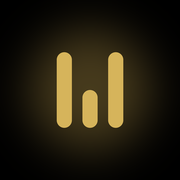
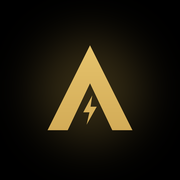
Marca: la «A» con rayo como icono, splash, loader, marca de agua y cards; Android, intro de vídeos y récord

Changed region(s): [[0.25, 0.25, 0.75, 0.75]]

diff --git a/native/Autopilot/Design/Components.swift b/native/Autopilot/Design/Components.swift
@@ -360,8 +360,8 @@ extension View {
     }
 }
 
-/// Firma de Autopilot («Ritmo»): tres barras 2-1-2. Logo sin texto, marca de agua y loader;
-/// la misma pieza que `BrandMark` en la web. Con `beat` late, salvo con «Reducir movimiento».
+/// Firma de Autopilot: la «A» con rayo (misma geometría que `BRAND_A`/`BRAND_BOLT` en la web).
+/// Logo, marca de agua y loader. Con `beat` el rayo late, salvo con «Reducir movimiento».
 struct BrandMark: View {
     var size: CGFloat = 24
     var beat = false
@@ -369,19 +369,28 @@ struct BrandMark: View {
     @State private var low = false
 
     var body: some View {
-        let bar = max(2, (size * 0.2).rounded())
-        HStack(alignment: .bottom, spacing: bar * 0.7) {
-            ForEach(0..<3, id: \.self) { i in
-                Capsule()
-                    .fill(color)
-                    .frame(width: bar, height: i == 1 ? size / 2 : size)
-                    .scaleEffect(x: 1, y: low ? 0.45 : 1, anchor: .bottom)
-                    .animation(beat ? .spring(response: 0.6, dampingFraction: 0.55).repeatForever().delay(Double(i) * 0.12) : nil, value: low)
-            }
+        ZStack {
+            BrandShape(points: [(50, 10), (88, 86), (70, 86), (50, 44), (30, 86), (12, 86)]).fill(color)
+            BrandShape(points: [(52, 55), (44, 70), (49.5, 70), (47, 81), (56, 65), (50.5, 65)]).fill(color)
+                .opacity(low ? 0.35 : 1)
+                .animation(beat ? .spring(response: 0.6, dampingFraction: 0.55).repeatForever() : nil, value: low)
         }
-        .frame(height: size, alignment: .bottom)
+        .frame(width: size, height: size)
         .accessibilityHidden(true)
         .onAppear { if beat && !A11y.reduceMotion { low = true } }
+    }
+}
+
+/// Polígono en coordenadas 0–100 recortado al cuadro 10…90 × 8…88 (igual que el viewBox web).
+private struct BrandShape: Shape {
+    let points: [(CGFloat, CGFloat)]
+    func path(in rect: CGRect) -> Path {
+        var p = Path()
+        let map = { (pt: (CGFloat, CGFloat)) in CGPoint(x: rect.minX + (pt.0 - 10) / 80 * rect.width, y: rect.minY + (pt.1 - 8) / 80 * rect.height) }
+        p.move(to: map(points[0]))
+        points.dropFirst().forEach { p.addLine(to: map($0)) }
+        p.closeSubpath()
+        return p
     }
 }
 

diff --git a/src/shared/components/ui/brand-mark.tsx b/src/shared/components/ui/brand-mark.tsx
@@ -1,9 +1,13 @@
 import { cn } from "@/shared/lib/utils";
 
+/** Geometría única de la «A» con rayo (viewBox 0 0 100 100); la misma en nativo y en los PNG. */
+export const BRAND_A = "M50 10L88 86H70L50 44L30 86H12Z";
+export const BRAND_BOLT = "M52 55L44 70H49.5L47 81L56 65H50.5Z";
+
 /**
- * Firma de Autopilot («Ritmo»): tres barras 2-1-2, la cadencia excéntrica-pausa-concéntrica.
- * Es el logo sin texto, la marca de agua y el loader. Una sola por vista (.claude/design/marca.md).
- * Hereda el color del texto; con `beat` late (y se queda quieta con «reducir movimiento»).
+ * Firma de Autopilot: la «A» con rayo. Es el logo, la marca de agua y el loader.
+ * Una sola por vista (.claude/design/marca.md). Hereda el color del texto; con `beat`
+ * el rayo late (y queda quieto con «reducir movimiento»).
  */
 export function BrandMark({ size = 24, beat = false, className, label }: {
   size?: number;
@@ -11,23 +15,18 @@ export function BrandMark({ size = 24, beat = false, className, label }: {
   className?: string;
   label?: string;
 }) {
-  const bar = Math.max(2, Math.round(size * 0.2));
-  const heights = [size, size / 2, size];
   return (
-    <span
+    <svg
+      viewBox="10 8 80 80"
+      width={size}
+      height={size}
       role={label ? "img" : undefined}
       aria-label={label}
       aria-hidden={label ? undefined : true}
-      className={cn("inline-flex shrink-0 items-end text-primary", className)}
-      style={{ height: size, gap: bar * 0.7 }}
+      className={cn("shrink-0 text-primary", className)}
     >
-      {heights.map((h, i) => (
-        <span
-          key={i}
-          className={cn("block origin-bottom rounded-full bg-current", beat && "motion-safe:animate-brand-beat")}
-          style={{ width: bar, height: h, animationDelay: beat ? `${i * 0.12}s` : undefined }}
-        />
-      ))}
-    </span>
+      <path d={BRAND_A} fill="currentColor" />
+      <path d={BRAND_BOLT} fill="currentColor" className={cn(beat && "origin-center motion-safe:animate-brand-beat")} style={{ transformBox: "fill-box" }} />
+    </svg>
   );
 }

diff --git a/src/app/components/dashboard/WorkoutStoryShare.tsx b/src/app/components/dashboard/WorkoutStoryShare.tsx
@@ -5,6 +5,7 @@ import { Spinner } from "@/shared/components/ui/spinner";
 import { hapticSelection, hapticTap, isNative, shareFileOrImage } from "@/shared/lib/native";
 import { toast } from "sonner";
 import autopilotLogo from "@/shared/assets/autopilot-logo.png";
+import { BRAND_A, BRAND_BOLT } from "@/shared/components/ui/brand-mark";
 import { bodyRegions, regionMuscles, smoothPath } from "@/app/components/dashboard/MuscleMapFigure";
 
 interface Props {
@@ -56,22 +57,18 @@ const F = "-apple-system, BlinkMacSystemFont, 'SF Pro Display', 'Helvetica Neue'
 const FIG = `"Big Shoulders", ${F}`;
 const fmt = (n: number) => Math.round(n).toLocaleString("es-ES");
 
-// Barras 2-1-2 de la marca, ancladas por abajo en (x, bottom).
-export function drawBrandBars(ctx: CanvasRenderingContext2D, x: number, bottom: number, size: number, color = "#D6B45B") {
-  const bar = Math.max(2, Math.round(size * 0.2)), gap = bar * 0.7;
+// «A» con rayo de la marca, en el cuadro (x, y, size).
+export function drawBrandA(ctx: CanvasRenderingContext2D, x: number, y: number, size: number, color = "#D6B45B") {
+  ctx.save();
+  ctx.translate(x, y); ctx.scale(size / 80, size / 80); ctx.translate(-10, -8);
   ctx.fillStyle = color;
-  [size, size / 2, size].forEach((h, i) => {
-    ctx.beginPath();
-    ctx.roundRect(x + i * (bar + gap), bottom - h, bar, h, bar / 2);
-    ctx.fill();
-  });
-  return bar * 3 + gap * 2;
+  ctx.fill(new Path2D(BRAND_A)); ctx.fill(new Path2D(BRAND_BOLT));
+  ctx.restore();
 }
 
-// Firma común a todo lo que sale de Autopilot (stories, scan, emails): barras y web, abajo.
+// Firma común a todo lo que sale de Autopilot (stories, scan, emails): la «A» y la web, abajo.
 function drawSignature(ctx: CanvasRenderingContext2D, W: number, H: number) {
-  const w = 3 * 10 + 2 * 7;
-  drawBrandBars(ctx, W / 2 - w / 2, H - 140, 50);
+  drawBrandA(ctx, W / 2 - 28, H - 190, 56);
   ctx.textAlign = "center"; ctx.textBaseline = "middle";
   ctx.fillStyle = "#71717a"; ctx.font = `500 26px ${F}`;
   ctx.fillText("autopilotplan.com", W / 2, H - 90);

diff --git a/src/app/components/ExerciseMedia.tsx b/src/app/components/ExerciseMedia.tsx
@@ -2,6 +2,7 @@ import { useState } from "react";
 import { Dumbbell, Video } from "lucide-react";
 import VideoEmbed, { toEmbedUrl } from "@/web/components/VideoEmbed";
 import { cn } from "@/shared/lib/utils";
+import { BrandMark } from "@/shared/components/ui/brand-mark";
 
 const isDirectFile = (url: string) => /\.(mp4|webm|mov|m4v)(\?|$)/i.test(url);
 
@@ -86,6 +87,8 @@ type Props = {
  * siempre 16:9 y con el mismo radio, así que nunca hay saltos de layout.
  */
 const ExerciseMedia = ({ video, image, name, className = "", emptyLabel = "Sin vídeo de técnica todavía" }: Props) => {
+  // Intro de marca de 1 s al reproducir (la «A» con el rayo latiendo sobre negro) y marca de agua fija.
+  const [intro, setIntro] = useState(false);
   if (video && isDirectFile(video)) {
     return (
       // El héroe es el vídeo con su portada: se ve al abrir la ficha y se
@@ -97,8 +100,19 @@ const ExerciseMedia = ({ video, image, name, className = "", emptyLabel = "Sin v
           playsInline
           controls
           preload="metadata"
+          onPlay={(e) => {
+            if (e.currentTarget.currentTime > 0.2) return;
+            setIntro(true);
+            window.setTimeout(() => setIntro(false), 1000);
+          }}
           className="h-full w-full object-cover"
         />
+        <BrandMark size={14} className="pointer-events-none absolute bottom-3 right-3 opacity-60" />
+        {intro && (
+          <div className="pointer-events-none absolute inset-0 flex items-center justify-center bg-black motion-safe:animate-fade-in">
+            <BrandMark size={36} beat />
+          </div>
+        )}
       </div>
     );
   }

diff --git a/src/app/components/dashboard/RecordCelebration.tsx b/src/app/components/dashboard/RecordCelebration.tsx
@@ -1,5 +1,5 @@
 import { useEffect } from "react";
-import { Trophy } from "lucide-react";
+import { BrandMark } from "@/shared/components/ui/brand-mark";
 
 export type RecordMoment = { exercise: string; diff: string; key: number };
 
@@ -25,11 +25,9 @@ export default function RecordCelebration({ moment, onDone }: { moment: RecordMo
     >
       <span aria-hidden="true" className="pointer-events-none absolute h-[36rem] w-[36rem] rounded-full bg-[radial-gradient(closest-side,hsl(var(--primary)/0.45),transparent)] animate-in zoom-in-50 duration-700 motion-reduce:animate-none" />
       <span className="relative flex flex-col items-center text-center animate-in zoom-in-90 fade-in duration-300 motion-reduce:animate-none">
-        <span className="flex h-16 w-16 items-center justify-center rounded-full bg-primary text-primary-foreground shadow-[0_0_60px_hsl(var(--primary)/0.6)]">
-          <Trophy className="h-8 w-8" strokeWidth={2.25} aria-hidden="true" />
-        </span>
+        <BrandMark size={64} beat />
         <span className="mt-6 type-subhead font-semibold uppercase tracking-[0.12em] text-primary">Nuevo récord personal</span>
-        <span className="mt-2 type-figure text-[72px] font-bold leading-none tracking-tight tabular-nums text-foreground">{moment.diff}</span>
+        <span className="mt-2 type-figure text-[96px] text-foreground">{moment.diff}</span>
         <span className="mt-3 max-w-xs type-title3 text-muted-foreground">{moment.exercise}</span>
       </span>
     </button>}

diff --git a/src/app/components/scan/ScanShareCard.tsx b/src/app/components/scan/ScanShareCard.tsx
@@ -1,6 +1,7 @@
 import { forwardRef } from "react";
 import { formatDecimal } from "@/shared/lib/numberFormat";
 import autopilotLogo from "@/shared/assets/autopilot-logo.png";
+import { BrandMark } from "@/shared/components/ui/brand-mark";
 
 export interface ScanShareData {
   physique: number;
@@ -94,8 +95,8 @@ const ScanShareCard = forwardRef<HTMLDivElement, { result: ScanShareData; photos
       </div>
 
       <div style={{ textAlign: "center" }}>
-        <div aria-hidden style={{ display: "flex", justifyContent: "center", alignItems: "flex-end", gap: 7, height: 50, marginBottom: 24 }}>
-          {[50, 25, 50].map((h, i) => <span key={i} style={{ width: 10, height: h, borderRadius: 5, background: GOLD }} />)}
+        <div aria-hidden style={{ display: "flex", justifyContent: "center", marginBottom: 24, color: GOLD }}>
+          <BrandMark size={56} className="text-current" />
         </div>
         <div style={{ fontSize: 22, color: "#52525b" }}>Lectura orientativa con IA</div>
         <div style={{ fontSize: 26, color: "#71717a", fontWeight: 500, marginTop: 8 }}>autopilotplan.com/scan</div>

diff --git a/tailwind.config.ts b/tailwind.config.ts
@@ -128,10 +128,10 @@ export default {
           "0%, 100%": { boxShadow: "0 0 20px hsl(48 100% 50% / 0.15)" },
           "50%": { boxShadow: "0 0 40px hsl(48 100% 50% / 0.3)" },
         },
-        // Firma de marca «Ritmo»: tres barras que laten 2-1-2 (excéntrica, pausa, concéntrica).
+        // Firma de marca: el rayo de la «A» late (carga, arranque, récord).
         "brand-beat": {
-          "0%, 100%": { transform: "scaleY(1)" },
-          "50%": { transform: "scaleY(0.45)" },
+          "0%, 100%": { opacity: "1", transform: "scale(1)" },
+          "50%": { opacity: "0.35", transform: "scale(0.8)" },
         },
         // UIActivityIndicatorView: each blade fades from full to faint in turn.
         "ios-spinner": {

diff --git a/native/Autopilot/Features/Shell/RootView.swift b/native/Autopilot/Features/Shell/RootView.swift
@@ -104,8 +104,8 @@ struct RootView: View {
     var body: some View {
         Group {
             if !session.ready {
-                // Arranque con la firma de marca: las mismas barras del splash, ahora latiendo.
-                BrandMark(size: 48, beat: true)
+                // Arranque con la firma de marca: la misma «A» del splash, con el rayo latiendo.
+                BrandMark(size: 72, beat: true)
                     .frame(maxWidth: .infinity, maxHeight: .infinity).screenBackground()
                     .accessibilityLabel("Autopilot")
             } else if session.showPicker {

diff --git a/src/shared/components/ui/spinner.tsx b/src/shared/components/ui/spinner.tsx
@@ -11,7 +11,7 @@ export interface SpinnerProps extends Omit<React.HTMLAttributes<HTMLSpanElement>
 }
 
 /**
- * Indicador de actividad con la firma de Autopilot: las tres barras 2-1-2 latiendo.
+ * Indicador de actividad con la firma de Autopilot: la «A» con el rayo latiendo.
  * Hereda el color del texto; por defecto, gris secundario.
  */
 const Spinner = ({ size = "md", label = "Cargando", className, style, ...props }: SpinnerProps) => (

diff --git a/.claude/design/marca.md b/.claude/design/marca.md
@@ -1,4 +1,4 @@
-# Firma de marca: «Ritmo»
+# Firma de marca: la «A» con rayo
 
 Objetivo: Autopilot se reconoce **sin logo**. Si tapas la marca en una pantalla, tarjeta, vídeo, email, notificación o post, se tiene que seguir sabiendo que es Autopilot.
 
@@ -6,19 +6,18 @@ Objetivo: Autopilot se reconoce **sin logo**. Si tapas la marca en una pantalla,
 
 | Pieza | Regla | Dónde vive |
 |---|---|---|
-| **Motivo** | Tres barras con proporción 2-1-2 (excéntrica, pausa, concéntrica) y radio completo, en dorado. Es el logo sin texto, la marca de agua y el loader. **Una sola por vista.** | `BrandMark` (`src/shared/components/ui/brand-mark.tsx`, `native/Autopilot/Design/Components.swift`) |
-| **Carga** | Siempre las barras latiendo, nunca las aspas de iOS ni `ProgressView`. | `Spinner` (web), `BrandLoader` (nativo) |
+| **Símbolo** | La «A» dorada con un rayo en el hueco, sobre negro. Geometría única: `BRAND_A` y `BRAND_BOLT` (viewBox 0–100). Es el icono, el splash, la marca de agua y el loader. **Una sola por vista.** | `BrandMark` (`src/shared/components/ui/brand-mark.tsx`, `native/Autopilot/Design/Components.swift`) |
+| **Carga** | Siempre la «A» con el rayo latiendo, nunca las aspas de iOS ni `ProgressView`. | `Spinner` (web), `BrandLoader` (nativo) |
 | **Cifras** | Las cifras protagonistas (kg, %, récords, kcal) van en Big Shoulders 800 y `tabular-nums`. El resto del texto sigue en Inter. | `.type-figure`, `font-figure` / `Font.figure(size:)` |
 | **Movimiento** | `cubic-bezier(.34,1.56,.64,1)` durante 360 ms (`--ease-brand`, `--dur-brand`), con un ligero rebote de muelle. | `src/index.css` |
-| **Háptica** | Fuerte, suave, fuerte (2-1-2) **solo** al cerrar una serie. | `hapticSignature()`, `Haptics.signature()` |
+| **Háptica** | Fuerte, suave, fuerte (2-1-2, la cadencia de una repetición) **solo** al cerrar una serie. | `hapticSignature()`, `Haptics.signature()` |
 | **Foto y vídeo** | Gradación ámbar cálida, negros profundos, saturación ≈85 %, grano fino y fundido a negro en el tercio inferior. | Prompt de `supabase/functions/exercise-video` |
 | **Emails** | Fondo negro y el mismo dorado que la app (`#D6B45B`). | `supabase/functions/_shared/email-styles.ts` |
-| **Cards para compartir** | Foto con el tratamiento anterior, cifra en `.type-figure` y barras pequeñas abajo a la izquierda, sin el nombre de la marca. | (pendiente: `WorkoutStoryShare`, `ScanShareCard`) |
+| **Cards para compartir** | Foto con el tratamiento anterior, cifra en `.type-figure` y la «A» pequeña al pie, sin el nombre de la marca. | (pendiente: `WorkoutStoryShare`, `ScanShareCard`) |
 
-Prohibido: el motivo como relleno o patrón, más de un juego de barras por vista, otras fuentes de cifras y otros dorados.
+Prohibido: el motivo como relleno o patrón, más de una «A» por vista, o dibujarla con otra geometría, otras fuentes de cifras y otros dorados.
 
 ## Pendiente
-- Splash: sustituir `LaunchLogo` por las barras sobre negro (web, Capacitor y nativo).
-- Icono de la app: las tres barras sobre negro.
-- Plantillas de las cards para compartir (entreno, scan y récord) y de las guías PDF.
-- Intro y outro de 1 s en los vídeos de técnica (las barras laten una vez).
+- Plantilla de las guías PDF.
+- Regenerar los vídeos de técnica ya existentes con el nuevo tratamiento.
+- Celebración de récord en la app nativa (hoy solo existe en la web).

diff --git a/.claude/design/checklist.md b/.claude/design/checklist.md
@@ -38,7 +38,7 @@ Pásala en cada pantalla nueva o cambiada. Si algo falla, no se publica.
 
 ## Test sin logo
 
-- [ ] Si tapo el logo y la palabra «Autopilot», ¿se sigue sabiendo que es Autopilot? (barras, cifras en `.type-figure`, dorado, tratamiento de foto)
+- [ ] Si tapo el logo y la palabra «Autopilot», ¿se sigue sabiendo que es Autopilot? (la «A», cifras en `.type-figure`, dorado, tratamiento de foto)
 - [ ] La carga usa `Spinner` o `BrandLoader`, nunca aspas ni `ProgressView`.
 - [ ] Solo un `BrandMark` por vista, y nunca como relleno.
 - [ ] Ningún dorado fuera del token (`--primary` / `Palette.gold`).

diff --git a/.claude/design/README.md b/.claude/design/README.md
@@ -39,4 +39,4 @@ Si algo de esta tabla no sirve, se amplía el componente común. No se copia y s
 
 ## Firma de marca
 
-Lee `marca.md`. La regla es que **Autopilot se reconozca sin logo**: barras 2-1-2, cifras en Big Shoulders, el dorado único, el loader con las barras y la háptica 2-1-2.
+Lee `marca.md`. La regla es que **Autopilot se reconozca sin logo**: la «A» con rayo, cifras en Big Shoulders, el dorado único, el loader con la «A» y la háptica 2-1-2.
